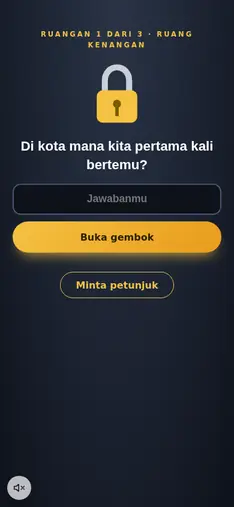
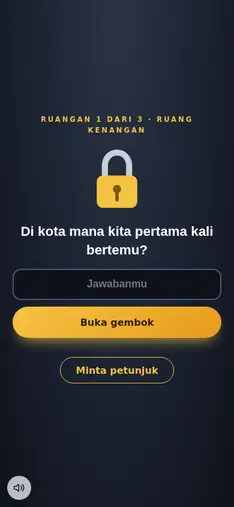
dearora

diff --git a/u/index.html b/u/index.html
@@ -11,19 +11,19 @@
   <link rel="preconnect" href="https://fonts.googleapis.com">
   <link rel="preconnect" href="https://fonts.gstatic.com" crossorigin>
   <link rel="stylesheet" href="https://fonts.googleapis.com/css2?family=Plus+Jakarta+Sans:wght@400;500;600;700;800&family=Caveat:wght@500;700&family=Fredoka:wght@400;500;600;700&family=Bebas+Neue&family=Rajdhani:wght@500;600;700&family=Amiri&family=Great+Vibes&family=Cormorant+Garamond:ital,wght@0,500;0,600;0,700;1,500;1,600;1,700&display=swap">
-  <link rel="stylesheet" href="/css/style.css?v=60">
-  <link rel="stylesheet" href="/css/card.css?v=60">
-  <link rel="stylesheet" href="/css/kejutan-baru.css?v=60">
-  <link rel="stylesheet" href="/css/gaya.css?v=60">
-  <link rel="stylesheet" href="/css/special.css?v=60">
-  <link rel="stylesheet" href="/css/nikah.css?v=60">
-  <link rel="stylesheet" href="/css/nikah-tema.css?v=60">
-  <link rel="stylesheet" href="/css/acara-tema.css?v=60">
-  <link rel="stylesheet" href="/css/undangan-modern.css?v=60">
-  <link rel="stylesheet" href="/css/undangan-budaya.css?v=60">
-  <link rel="stylesheet" href="/css/ultah-premium.css?v=60">
-  <link rel="stylesheet" href="/css/ultah-sinema.css?v=60">
-  <link rel="stylesheet" href="/css/balasan.css?v=60">
+  <link rel="stylesheet" href="/css/style.css?v=63">
+  <link rel="stylesheet" href="/css/card.css?v=63">
+  <link rel="stylesheet" href="/css/kejutan-baru.css?v=63">
+  <link rel="stylesheet" href="/css/gaya.css?v=63">
+  <link rel="stylesheet" href="/css/special.css?v=63">
+  <link rel="stylesheet" href="/css/nikah.css?v=63">
+  <link rel="stylesheet" href="/css/nikah-tema.css?v=63">
+  <link rel="stylesheet" href="/css/acara-tema.css?v=63">
+  <link rel="stylesheet" href="/css/undangan-modern.css?v=63">
+  <link rel="stylesheet" href="/css/undangan-budaya.css?v=63">
+  <link rel="stylesheet" href="/css/ultah-premium.css?v=63">
+  <link rel="stylesheet" href="/css/ultah-sinema.css?v=63">
+  <link rel="stylesheet" href="/css/balasan.css?v=63">
 </head>
 <body class="card-body">
   <!-- Sprite ikon yang dipakai halaman kartu -->
@@ -52,46 +52,46 @@
   </main>
   <noscript><p style="padding:2rem;text-align:center">Ucapan ini membutuhkan JavaScript agar dapat ditampilkan.</p></noscript>
 
-  <script src="/js/config.js?v=60"></script>
-  <script src="/js/api.js?v=60"></script>
-  <script src="/js/art.js?v=60"></script>
-  <script src="/js/gaya.js?v=60"></script>
-  <script src="/js/ui.js?v=60"></script>
-  <script src="/js/suara.js?v=60"></script>
-  <script src="/js/balasan.js?v=60"></script>
-  <script src="/js/special-core.js?v=60"></script>
-  <script src="/js/sp-movie.js?v=60"></script>
-  <script src="/js/sp-mall.js?v=60"></script>
-  <script src="/js/sp-bestie.js?v=60"></script>
-  <script src="/js/sp-feed.js?v=60"></script>
-  <script src="/js/sp-musik.js?v=60"></script>
-  <script src="/js/sp-misi.js?v=60"></script>
-  <script src="/js/sp-romantique.js?v=60"></script>
-  <script src="/js/sp-wisuda.js?v=60"></script>
-  <script src="/js/sp-lebaran.js?v=60"></script>
-  <script src="/js/sp-imlek.js?v=60"></script>
-  <script src="/js/sp-mancing.js?v=60"></script>
-  <script src="/js/sp-awards.js?v=60"></script>
-  <script src="/js/sp-resep.js?v=60"></script>
-  <script src="/js/sp-rumah.js?v=60"></script>
-  <script src="/js/sp-brankas.js?v=60"></script>
-  <script src="/js/sp-hujan.js?v=60"></script>
-  <script src="/js/sp-lahir.js?v=60"></script>
-  <script src="/js/sp-pesta.js?v=60"></script>
-  <script src="/js/sp-kue.js?v=60"></script>
-  <script src="/js/sp-album.js?v=60"></script>
-  <script src="/js/sp-terbang.js?v=60"></script>
-  <script src="/js/sp-degustasi.js?v=60"></script>
-  <script src="/js/sp-detektif.js?v=60"></script>
-  <script src="/js/sp-bianglala.js?v=60"></script>
-  <script src="/js/sp-bunga.js?v=60"></script>
-  <script src="/js/sp-undangan.js?v=60"></script>
-  <script src="/js/sp-pernikahan.js?v=60"></script>
-  <script src="/js/sp-nikah-tema.js?v=60"></script>
-  <script src="/js/sp-acara-tema.js?v=60"></script>
-  <script src="/js/sp-undangan-modern.js?v=60"></script>
-  <script src="/js/sp-undangan-budaya.js?v=60"></script>
-  <script src="/js/skema.js?v=60"></script>
-  <script src="/js/card.js?v=60"></script>
+  <script src="/js/config.js?v=63"></script>
+  <script src="/js/api.js?v=63"></script>
+  <script src="/js/art.js?v=63"></script>
+  <script src="/js/gaya.js?v=63"></script>
+  <script src="/js/ui.js?v=63"></script>
+  <script src="/js/suara.js?v=63"></script>
+  <script src="/js/balasan.js?v=63"></script>
+  <script src="/js/special-core.js?v=63"></script>
+  <script src="/js/sp-movie.js?v=63"></script>
+  <script src="/js/sp-mall.js?v=63"></script>
+  <script src="/js/sp-bestie.js?v=63"></script>
+  <script src="/js/sp-feed.js?v=63"></script>
+  <script src="/js/sp-musik.js?v=63"></script>
+  <script src="/js/sp-misi.js?v=63"></script>
+  <script src="/js/sp-romantique.js?v=63"></script>
+  <script src="/js/sp-wisuda.js?v=63"></script>
+  <script src="/js/sp-lebaran.js?v=63"></script>
+  <script src="/js/sp-imlek.js?v=63"></script>
+  <script src="/js/sp-mancing.js?v=63"></script>
+  <script src="/js/sp-awards.js?v=63"></script>
+  <script src="/js/sp-resep.js?v=63"></script>
+  <script src="/js/sp-rumah.js?v=63"></script>
+  <script src="/js/sp-brankas.js?v=63"></script>
+  <script src="/js/sp-hujan.js?v=63"></script>
+  <script src="/js/sp-lahir.js?v=63"></script>
+  <script src="/js/sp-pesta.js?v=63"></script>
+  <script src="/js/sp-kue.js?v=63"></script>
+  <script src="/js/sp-album.js?v=63"></script>
+  <script src="/js/sp-terbang.js?v=63"></script>
+  <script src="/js/sp-degustasi.js?v=63"></script>
+  <script src="/js/sp-detektif.js?v=63"></script>
+  <script src="/js/sp-bianglala.js?v=63"></script>
+  <script src="/js/sp-bunga.js?v=63"></script>
+  <script src="/js/sp-undangan.js?v=63"></script>
+  <script src="/js/sp-pernikahan.js?v=63"></script>
+  <script src="/js/sp-nikah-tema.js?v=63"></script>
+  <script src="/js/sp-acara-tema.js?v=63"></script>
+  <script src="/js/sp-undangan-modern.js?v=63"></script>
+  <script src="/js/sp-undangan-budaya.js?v=63"></script>
+  <script src="/js/skema.js?v=63"></script>
+  <script src="/js/card.js?v=63"></script>
 </body>
 </html>

diff --git a/s/index.html b/s/index.html
@@ -11,16 +11,16 @@
   <link rel="preconnect" href="https://fonts.googleapis.com">
   <link rel="preconnect" href="https://fonts.gstatic.com" crossorigin>
   <link rel="stylesheet" href="https://fonts.googleapis.com/css2?family=Plus+Jakarta+Sans:wght@400;500;600;700;800&family=Caveat:wght@500;700&family=Fredoka:wght@400;500;600;700&family=Bebas+Neue&family=Rajdhani:wght@500;600;700&family=Amiri&family=Great+Vibes&family=Cormorant+Garamond:ital,wght@0,500;0,600;0,700;1,500;1,600;1,700&display=swap">
-  <link rel="stylesheet" href="/css/style.css?v=60">
-  <link rel="stylesheet" href="/css/special.css?v=60">
-  <link rel="stylesheet" href="/css/nikah.css?v=60">
-  <link rel="stylesheet" href="/css/nikah-tema.css?v=60">
-  <link rel="stylesheet" href="/css/acara-tema.css?v=60">
-  <link rel="stylesheet" href="/css/undangan-modern.css?v=60">
-  <link rel="stylesheet" href="/css/undangan-budaya.css?v=60">
-  <link rel="stylesheet" href="/css/ultah-premium.css?v=60">
-  <link rel="stylesheet" href="/css/ultah-sinema.css?v=60">
-  <link rel="stylesheet" href="/css/balasan.css?v=60">
+  <link rel="stylesheet" href="/css/style.css?v=63">
+  <link rel="stylesheet" href="/css/special.css?v=63">
+  <link rel="stylesheet" href="/css/nikah.css?v=63">
+  <link rel="stylesheet" href="/css/nikah-tema.css?v=63">
+  <link rel="stylesheet" href="/css/acara-tema.css?v=63">
+  <link rel="stylesheet" href="/css/undangan-modern.css?v=63">
+  <link rel="stylesheet" href="/css/undangan-budaya.css?v=63">
+  <link rel="stylesheet" href="/css/ultah-premium.css?v=63">
+  <link rel="stylesheet" href="/css/ultah-sinema.css?v=63">
+  <link rel="stylesheet" href="/css/balasan.css?v=63">
 </head>
 <body class="card-body">
   <!-- Sprite ikon yang dipakai halaman kartu -->
@@ -56,44 +56,44 @@
   </main>
   <noscript><p style="padding:2rem;text-align:center">Ucapan ini membutuhkan JavaScript agar dapat ditampilkan.</p></noscript>
 
-  <script src="/js/art.js?v=60"></script>
-  <script src="/js/gaya.js?v=60"></script>
-  <script src="/js/ui.js?v=60"></script>
-  <script src="/js/suara.js?v=60"></script>
-  <script src="/js/balasan.js?v=60"></script>
-  <script src="/js/skema.js?v=60"></script>
-  <script src="/js/special-core.js?v=60"></script>
-  <script src="/js/sp-movie.js?v=60"></script>
-  <script src="/js/sp-mall.js?v=60"></script>
-  <script src="/js/sp-bestie.js?v=60"></script>
-  <script src="/js/sp-feed.js?v=60"></script>
-  <script src="/js/sp-musik.js?v=60"></script>
-  <script src="/js/sp-misi.js?v=60"></script>
-  <script src="/js/sp-romantique.js?v=60"></script>
-  <script src="/js/sp-wisuda.js?v=60"></script>
-  <script src="/js/sp-lebaran.js?v=60"></script>
-  <script src="/js/sp-imlek.js?v=60"></script>
-  <script src="/js/sp-mancing.js?v=60"></script>
-  <script src="/js/sp-awards.js?v=60"></script>
-  <script src="/js/sp-resep.js?v=60"></script>
-  <script src="/js/sp-rumah.js?v=60"></script>
-  <script src="/js/sp-brankas.js?v=60"></script>
-  <script src="/js/sp-hujan.js?v=60"></script>
-  <script src="/js/sp-lahir.js?v=60"></script>
-  <script src="/js/sp-pesta.js?v=60"></script>
-  <script src="/js/sp-kue.js?v=60"></script>
-  <script src="/js/sp-album.js?v=60"></script>
-  <script src="/js/sp-terbang.js?v=60"></script>
-  <script src="/js/sp-degustasi.js?v=60"></script>
-  <script src="/js/sp-detektif.js?v=60"></script>
-  <script src="/js/sp-bianglala.js?v=60"></script>
-  <script src="/js/sp-bunga.js?v=60"></script>
-  <script src="/js/sp-undangan.js?v=60"></script>
-  <script src="/js/sp-pernikahan.js?v=60"></script>
-  <script src="/js/sp-nikah-tema.js?v=60"></script>
-  <script src="/js/sp-acara-tema.js?v=60"></script>
-  <script src="/js/sp-undangan-modern.js?v=60"></script>
-  <script src="/js/sp-undangan-budaya.js?v=60"></script>
-  <script src="/js/special-start.js?v=60"></script>
+  <script src="/js/art.js?v=63"></script>
+  <script src="/js/gaya.js?v=63"></script>
+  <script src="/js/ui.js?v=63"></script>
+  <script src="/js/suara.js?v=63"></script>
+  <script src="/js/balasan.js?v=63"></script>
+  <script src="/js/skema.js?v=63"></script>
+  <script src="/js/special-core.js?v=63"></script>
+  <script src="/js/sp-movie.js?v=63"></script>
+  <script src="/js/sp-mall.js?v=63"></script>
+  <script src="/js/sp-bestie.js?v=63"></script>
+  <script src="/js/sp-feed.js?v=63"></script>
+  <script src="/js/sp-musik.js?v=63"></script>
+  <script src="/js/sp-misi.js?v=63"></script>
+  <script src="/js/sp-romantique.js?v=63"></script>
+  <script src="/js/sp-wisuda.js?v=63"></script>
+  <script src="/js/sp-lebaran.js?v=63"></script>
+  <script src="/js/sp-imlek.js?v=63"></script>
+  <script src="/js/sp-mancing.js?v=63"></script>
+  <script src="/js/sp-awards.js?v=63"></script>
+  <script src="/js/sp-resep.js?v=63"></script>
+  <script src="/js/sp-rumah.js?v=63"></script>
+  <script src="/js/sp-brankas.js?v=63"></script>
+  <script src="/js/sp-hujan.js?v=63"></script>
+  <script src="/js/sp-lahir.js?v=63"></script>
+  <script src="/js/sp-pesta.js?v=63"></script>
+  <script src="/js/sp-kue.js?v=63"></script>
+  <script src="/js/sp-album.js?v=63"></script>
+  <script src="/js/sp-terbang.js?v=63"></script>
+  <script src="/js/sp-degustasi.js?v=63"></script>
+  <script src="/js/sp-detektif.js?v=63"></script>
+  <script src="/js/sp-bianglala.js?v=63"></script>
+  <script src="/js/sp-bunga.js?v=63"></script>
+  <script src="/js/sp-undangan.js?v=63"></script>
+  <script src="/js/sp-pernikahan.js?v=63"></script>
+  <script src="/js/sp-nikah-tema.js?v=63"></script>
+  <script src="/js/sp-acara-tema.js?v=63"></script>
+  <script src="/js/sp-undangan-modern.js?v=63"></script>
+  <script src="/js/sp-undangan-budaya.js?v=63"></script>
+  <script src="/js/special-start.js?v=63"></script>
 </body>
 </html>

diff --git a/js/special-core.js b/js/special-core.js
@@ -65,6 +65,30 @@
     var g = window.Gaya && window.Gaya.G && window.Gaya.G[k], w = g && g.warna && g.warna[0];
     if (w && /^#[0-9a-f]{3,8}$/i.test(w)) el.style.background = w;
   }
+  /* Memusatkan isi layar secara vertikal bila lebih pendek dari layar. Banyak desain menempel di atas dan menyisakan ruang kosong di bawah.
+     Hanya menambah padding atas sesuai sisa ruang; bila isi lebih tinggi dari layar, tidak ada yang berubah (tetap bisa digulir). */
+  function pusatkan(root) {
+    if (!root || root._pusat) return; root._pusat = true;
+    var antri = 0;
+    function ukur() {
+      antri = 0; var l = root.querySelector('.sp-layar'); if (!l || l.classList.contains('ud') || l.dataset.tengah === 'tidak') return;
+      l.style.paddingTop = '';
+      var lr = l.getBoundingClientRect(), tinggi = l.clientHeight, atas = Infinity, bawah = -Infinity, n = 0;
+      [].forEach.call(l.children, function (c) {
+        var cs = getComputedStyle(c); if (cs.position === 'absolute' || cs.position === 'fixed' || cs.display === 'none') return;
+        var r = c.getBoundingClientRect(); if (r.height < 1) return; n++; atas = Math.min(atas, r.top); bawah = Math.max(bawah, r.bottom);
+      });
+      if (!n || !lr.height) return;
+      var isi = bawah - atas, sekarang = atas - lr.top + l.scrollTop, tambah = (tinggi - isi) / 2 - sekarang;
+      if (tambah > 8 && isi < tinggi) l.style.paddingTop = ((parseFloat(getComputedStyle(l).paddingTop) || 0) + tambah) + 'px';
+    }
+    function jadwal() { if (!antri) antri = requestAnimationFrame(ukur); }
+    try { new MutationObserver(jadwal).observe(root, { childList: true, subtree: true, attributes: true, attributeFilter: ['class', 'hidden'] }); } catch (e) { /* abaikan */ }
+    if (window.ResizeObserver) { try { new ResizeObserver(jadwal).observe(root); } catch (e) { /* abaikan */ } }
+    window.addEventListener('resize', jadwal); root.addEventListener('load', jadwal, true);
+    if (document.fonts && document.fonts.ready) document.fonts.ready.then(jadwal);
+    [0, 250, 800, 1800].forEach(function (ms) { setTimeout(jadwal, ms); });
+  }
   var Special = {
     reg: function (k, def) { reg[k] = def; }, ada: function (k) { return !!reg[k]; }, daftar: function () { return Object.keys(reg); },
     esc: esc, ic: ic, reduce: reduce, rnd: rnd, pilih: pilih, confetti: confetti, dariEl: dariEl, jeda: jeda, foto: foto, src: src, toast: toast, kata: kata,
@@ -80,7 +104,7 @@
       if (window.Suara && window.Suara.tema) window.Suara.tema(k);                // bunyi klik dan latar mengikuti tema desain
       host.className = 'konsep-host sp-root sp-' + k; host.innerHTML = ''; latarDasar(host, k);
       if (window.Suara) { window.Suara.pasangTombol(); if (!Special._sa) { Special._sa = true; window.Suara.otomatis(document); } }
-      var mulaiDesain = function () { host.innerHTML = ''; def.mulai(host, def.adapt(f || {}, c), Special); if (c.musik && k !== 'musik') Special.pasangMusik(c.musik); };
+      var mulaiDesain = function () { host.innerHTML = ''; def.mulai(host, def.adapt(f || {}, c), Special); pusatkan(host); if (c.musik && k !== 'musik') Special.pasangMusik(c.musik); };
       var kata = String((f && f.transisi) || '').trim();
       if (kata) Special.jembatan(host, k, kata, mulaiDesain); else mulaiDesain();
     },
@@ -111,7 +135,7 @@
       if (window.Suara) { window.Suara.pasangTombol(); if (!Special._sa) { Special._sa = true; window.Suara.otomatis(document); } }
       $root.className = 'sp-root sp-' + k; $root.innerHTML = '';
       document.title = (def.nama || 'Ucapan') + ' — Dearora';
-      def.mulai($root, data, Special);
+      def.mulai($root, data, Special); pusatkan($root);
     },
     /** Mode nyata: data dari server. c = {penerima, pengirim, foto:[idDrive], slug}; f = isian pembeli (skema). */
     mountData: function (k, c, f) {
@@ -121,7 +145,7 @@
       if (window.Suara) { window.Suara.pasangTombol(); if (!Special._sa) { Special._sa = true; window.Suara.otomatis(document); } }
       $root.className = 'sp-root sp-' + k; $root.innerHTML = ''; latarDasar($root, k);
       document.title = 'Ucapan untukmu';
-      def.mulai($root, def.adapt(f || {}, c), Special);
+      def.mulai($root, def.adapt(f || {}, c), Special); pusatkan($root);
       if (c.musik && k !== 'musik') Special.pasangMusik(c.musik);
     },
     /** Musik latar pilihan pembeli: mulai setelah sentuhan pertama, ada tombol putar/jeda. */

diff --git a/index.html b/index.html
@@ -14,9 +14,9 @@
   <link rel="preconnect" href="https://fonts.googleapis.com">
   <link rel="preconnect" href="https://fonts.gstatic.com" crossorigin>
   <link rel="stylesheet" href="https://fonts.googleapis.com/css2?family=Plus+Jakarta+Sans:wght@400;500;600;700;800&family=Fredoka:wght@500;600;700&family=Cormorant+Garamond:ital,wght@0,600;1,600&family=Caveat:wght@700&display=swap">
-  <link rel="stylesheet" href="css/style.css?v=62">
-  <link rel="stylesheet" href="css/kejutan-baru.css?v=62">
-  <link rel="stylesheet" href="css/scene.css?v=62">
+  <link rel="stylesheet" href="css/style.css?v=63">
+  <link rel="stylesheet" href="css/kejutan-baru.css?v=63">
+  <link rel="stylesheet" href="css/scene.css?v=63">
 </head>
 <body>
   <a class="skip-link" href="#main">Lewati ke konten utama</a>
@@ -148,21 +148,21 @@
   <div class="toast" id="toast" role="status" aria-live="polite"></div>
   <div class="preview-pill" id="previewPill" hidden>Mode pratinjau: data contoh. Isi GAS_URL di js/config.js</div>
 
-  <script src="js/config.js?v=62"></script>
-  <script src="js/seed.js?v=62"></script>
-  <script src="js/api.js?v=62"></script>
-  <script src="js/art.js?v=62"></script>
-  <script src="js/gaya.js?v=62"></script>
-  <script src="js/skema.js?v=62"></script>
-  <script src="js/ui.js?v=62"></script>
-  <script src="js/auth.js?v=62"></script>
-  <script src="js/tamu.js?v=62"></script>
-  <script src="js/ponsel.js?v=62"></script>
-  <script src="js/testimoni.js?v=62"></script>
-  <script src="js/views.js?v=62"></script>
-  <script src="js/form.js?v=62"></script>
-  <script src="js/status.js?v=62"></script>
-  <script src="js/portal.js?v=62"></script>
-  <script src="js/app.js?v=62"></script>
+  <script src="js/config.js?v=63"></script>
+  <script src="js/seed.js?v=63"></script>
+  <script src="js/api.js?v=63"></script>
+  <script src="js/art.js?v=63"></script>
+  <script src="js/gaya.js?v=63"></script>
+  <script src="js/skema.js?v=63"></script>
+  <script src="js/ui.js?v=63"></script>
+  <script src="js/auth.js?v=63"></script>
+  <script src="js/tamu.js?v=63"></script>
+  <script src="js/ponsel.js?v=63"></script>
+  <script src="js/testimoni.js?v=63"></script>
+  <script src="js/views.js?v=63"></script>
+  <script src="js/form.js?v=63"></script>
+  <script src="js/status.js?v=63"></script>
+  <script src="js/portal.js?v=63"></script>
+  <script src="js/app.js?v=63"></script>
 </body>
 </html>
